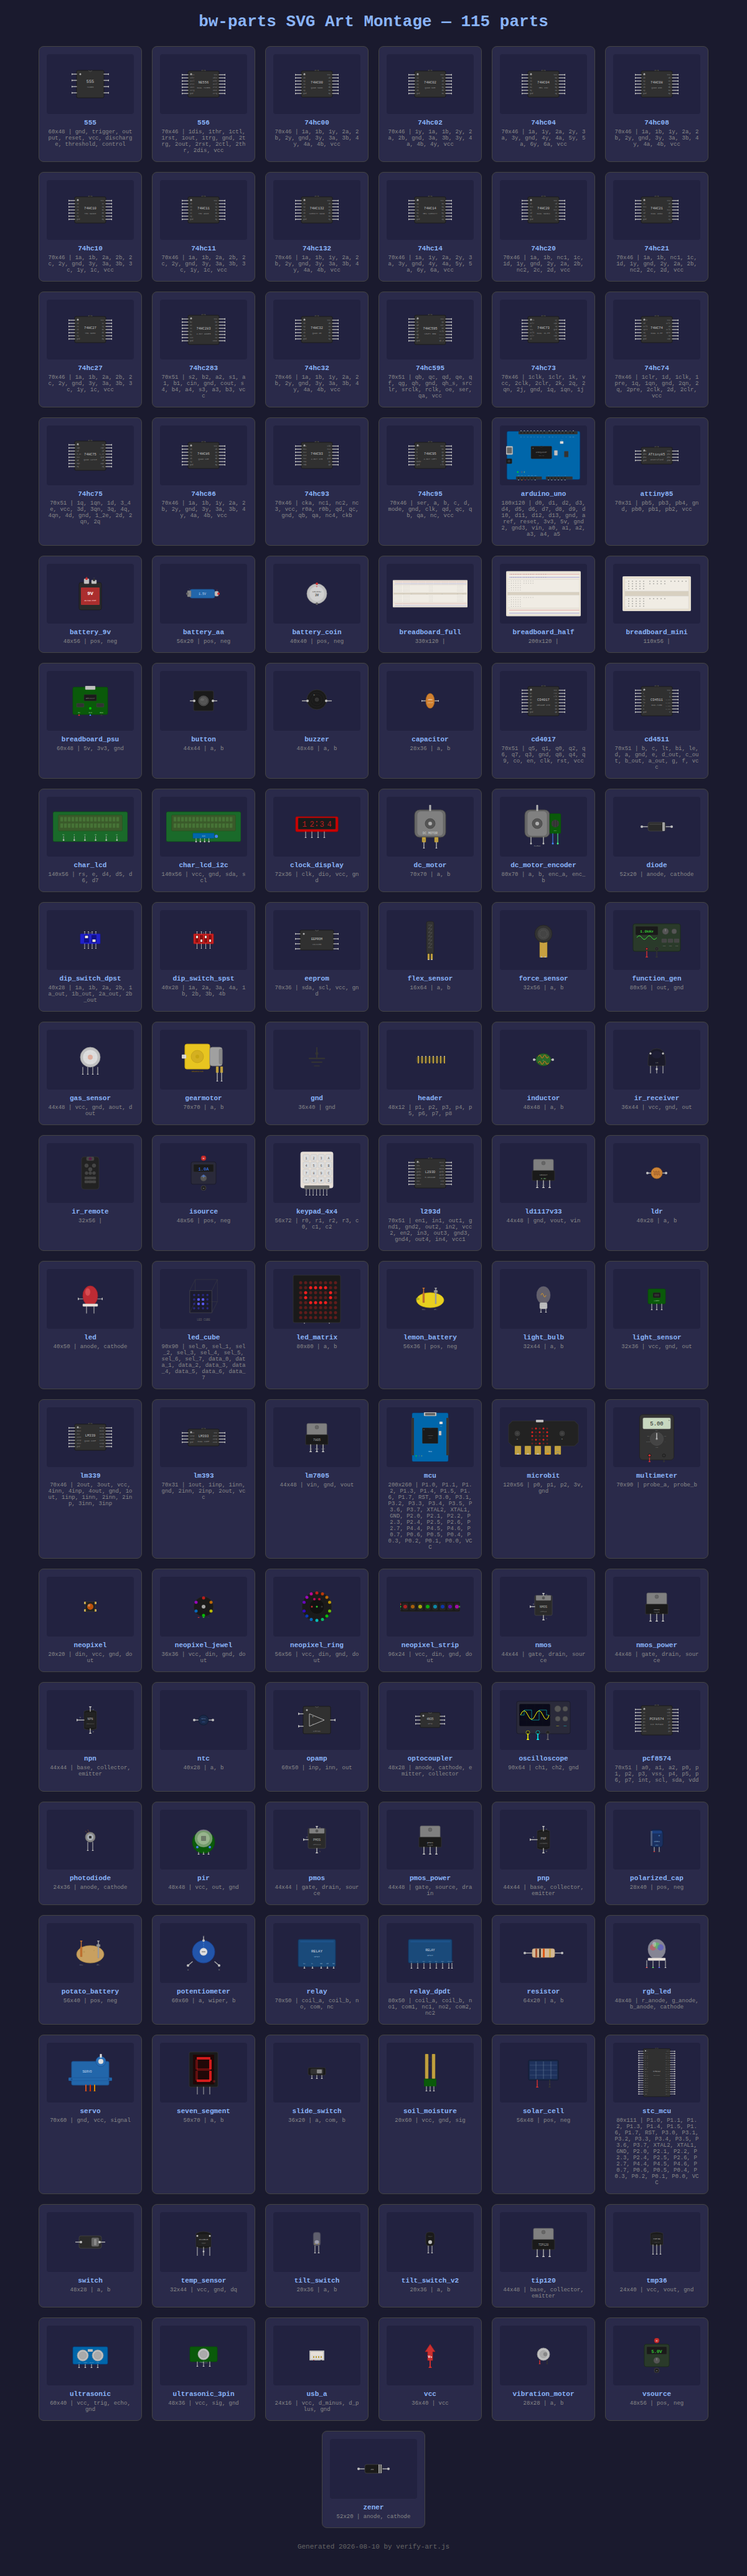
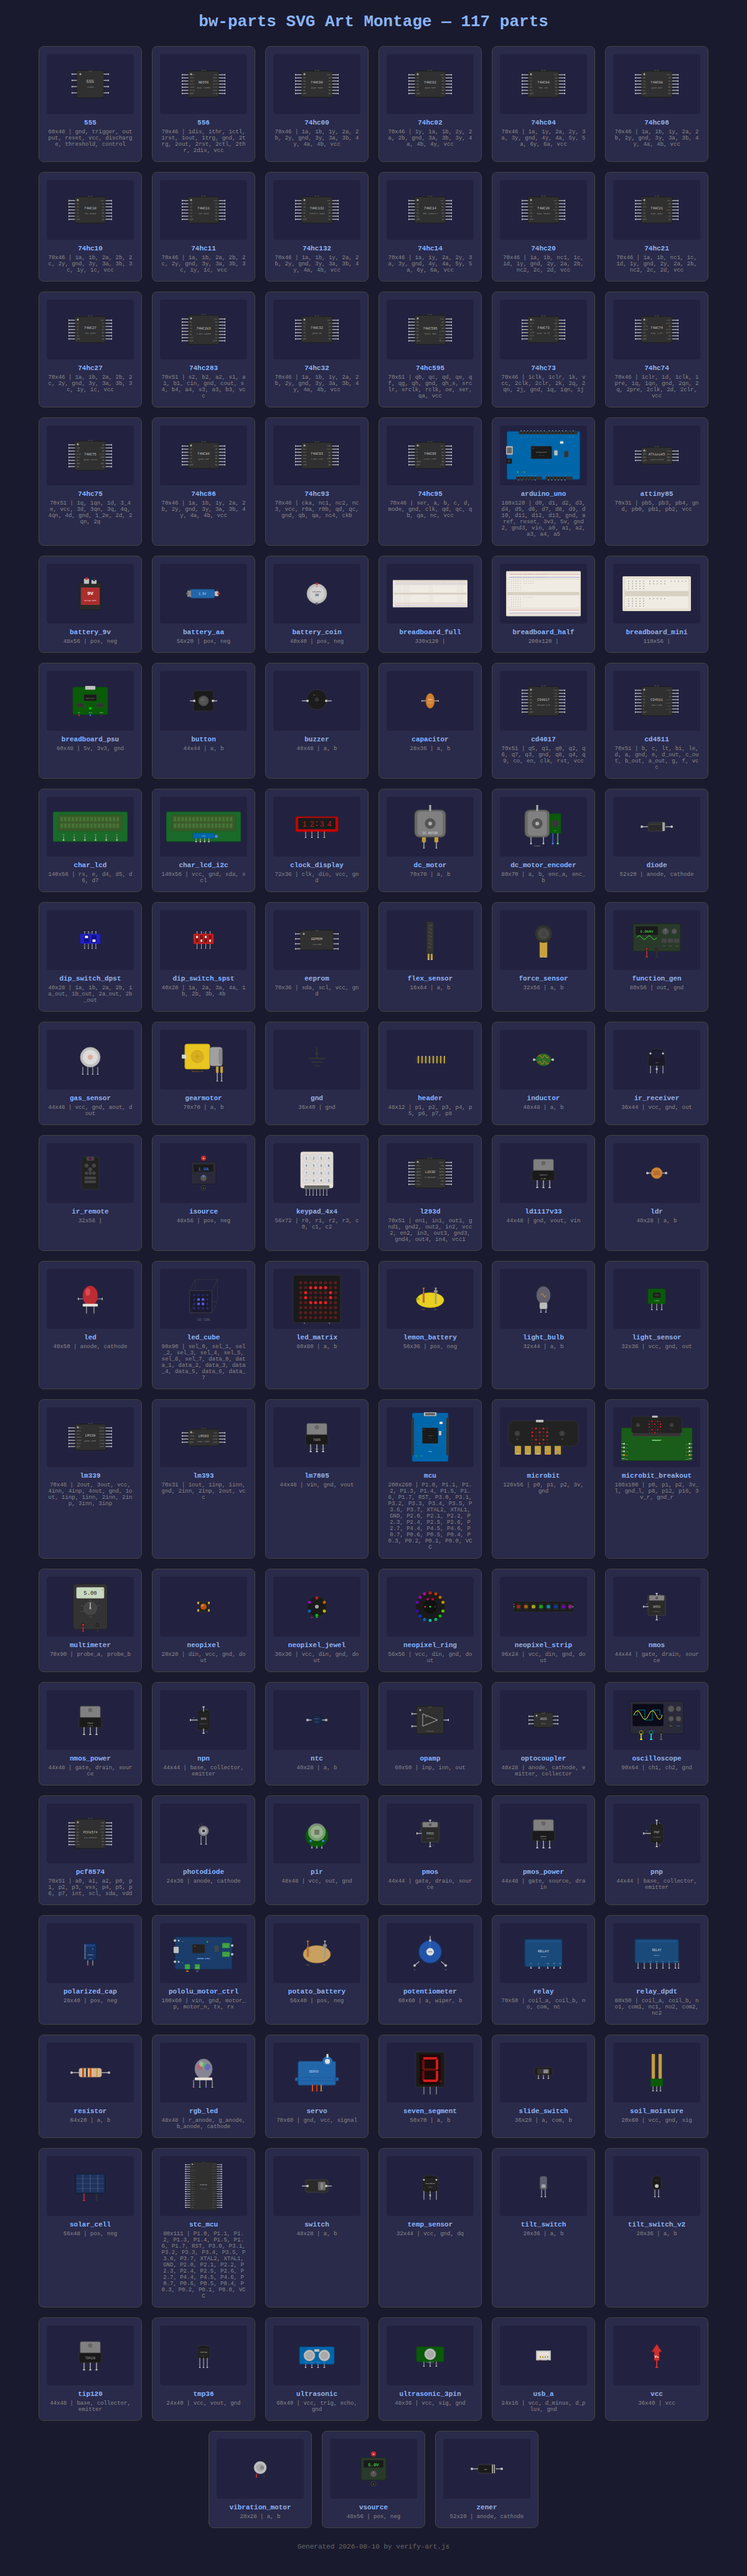
Complete art library: add microbit_breakout and pololu_motor_ctrl SVGs
All 118 catalog entries now have SVG art and JSON terminal sidecars
(117 SVG files — power_supply shares vsource art). No pending items.

microbit_breakout: micro:bit sitting in a breakout board with exposed
edge connector pins as breadboard-friendly headers. 10 terminals
(subset — real boards expose all 25 edge pins).

pololu_motor_ctrl: board-level motor controller (help-page-only in
reference catalogue). 6 terminals: vin, gnd, motor_p, motor_n, tx, rx.

Current ratings added for both new parts.

diff --git a/PARTS-CATALOG.md b/PARTS-CATALOG.md
@@ -209,8 +209,8 @@ like any other part (per bw-board ruling 2db84b2).
 | 103 | `breadboard_mini` | Breadboard Mini / Steckbrett Mini | drawable-only | done |
 | 104 | `header` | 8-Pin Header / 8-Pin-Stiftleiste | drawable-only | done |
 | 105 | `usb_a` | USB-A Connector / USB-A-Stecker | drawable-only | done |
-| 106 | `microbit_breakout` | micro:bit with Breakout / micro:bit mit Breakout | drawable-only | pending |
-| 107 | `pololu_motor_ctrl` | Pololu Motor Controller / Pololu-Motorsteuerung | drawable-only | pending |
+| 106 | `microbit_breakout` | micro:bit with Breakout / micro:bit mit Breakout | drawable-only | done |
+| 107 | `pololu_motor_ctrl` | Pololu Motor Controller / Pololu-Motorsteuerung | drawable-only | done |
 
 ## Engine-only parts (not in reference library)
 
@@ -236,14 +236,11 @@ Modeled in bw-board, useful, not in the reference catalogue. Kept as extras.
 
 | | Kinds | With art |
 |---|---|---|
-| Reference library match | 107 | 105 |
+| Reference library match | 107 | 107 |
 | Engine-only extras | 11 | 11 |
 | Declined | 1 | — |
-| **Total** | **118 + 1 declined** | **116** |
+| **Total** | **118 + 1 declined** | **118** |
 
-### Art remaining (2 kinds, both low priority)
+### Art status: complete
 
-| Kind slug | Effort | Why deferred |
-|---|---|---|
-| `microbit_breakout` | New drawing (board + breakout) | Combo part, no consumer in current campaign |
-| `pololu_motor_ctrl` | New drawing (board) | Help-page-only in reference catalogue, no engine model |
+All 118 parts have SVG art and JSON terminal sidecars. No pending items.

diff --git a/PARTS-RECONCILIATION.md b/PARTS-RECONCILIATION.md
@@ -155,8 +155,8 @@ Legend: ✓ = present, — = absent, *alias* = present under different slug
 | 104 | `breadboard_mini` | — | — | — | done | |
 | 105 | `header` | — | ✓ | ✓ | done | renamed from `header_8pin` |
 | 106 | `usb_a` | ✓ | ✓ | done | |
-| 107 | `microbit_breakout` | — | — | — | pending | |
-| 108 | `pololu_motor_ctrl` | — | — | — | pending | help-page-only |
+| 107 | `microbit_breakout` | — | — | — | done | combo part |
+| 108 | `pololu_motor_ctrl` | — | — | — | done | help-page-only |
 | 109 | `switch` | — | ✓ | ✓ | done | engine-only; kept alongside slide_switch |
 | 110 | `ntc` | — | ✓ | ✓ | done | |
 | 111 | `eeprom` | — | ✓ | ✓ | done | |
